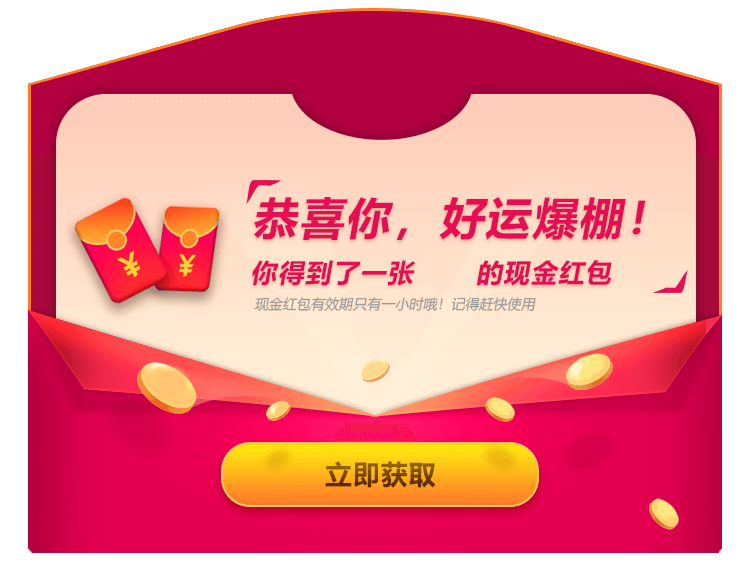
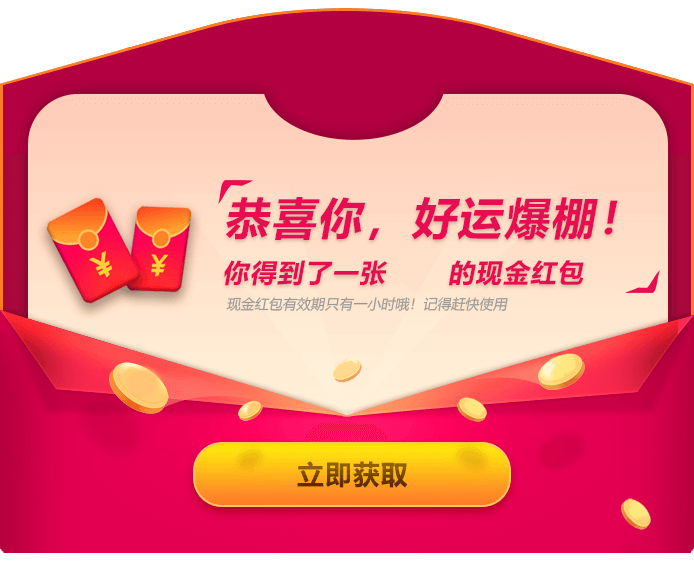
update pop-ups

diff --git a/css/mobi.css b/css/mobi.css
@@ -1941,20 +1941,23 @@ a.cndns-right-btn i {
     top: 50%;
     width: 750px;
     height: 580px;
-    padding-right: 50px;
+    padding-right: 100px;
     margin: -290px 0 0 -350px;
     z-index: 1060;
-    vertical-align: middle;
 }
 .modal-content .imgbox {
     position: relative;
+    display: table;
     width: 100%;
     height: 540px;
-    background: url(../img/vo60_alert.png) no-repeat;
-    background-size: cover;
+    text-align: center;
 }
 .modal-content .imgbox img {
-    width: 100%;
+    max-width: 650px;
+    display: inline-block;
+}
+.modal-content .imgbox a{
+    display: table-cell;
     vertical-align: middle;
 }
 .modal-content .imgbox .btnbox {
@@ -1964,7 +1967,6 @@ a.cndns-right-btn i {
     width: 320px;
     height: 70px;
     margin-left: -160px;
-    /* background: #fff; */
 }
 .modal-backdrop {
     position: fixed;
@@ -1972,7 +1974,6 @@ a.cndns-right-btn i {
     right: 0;
     bottom: 0;
     left: 0;
-    /* z-index: 1051; */
     background-color: rgba(0, 0, 0, .67);
 }
 .modal-content .close {
@@ -1985,6 +1986,4 @@ a.cndns-right-btn i {
 .modal-content .close .iconfont {
     font-size: 24px;
     font-weight: 100;
-    /* color: rgba(255, 255, 255, 0.6); */
-    /* color: rgba(0, 0, 0, .87); */
 }

diff --git a/index.html b/index.html
@@ -1514,7 +1514,7 @@
     <div class="modal-content">
         <a href="#" class="close"><i class="icon iconfont icon-x"></i></a>
         <div class="imgbox">
-            <a href="#" class="btnbox"></a>
+            <a href="#"><img src="./img/vo60_alert.png" alt=""></a>
         </div>
     </div>
     <div class="modal-backdrop"></div>
